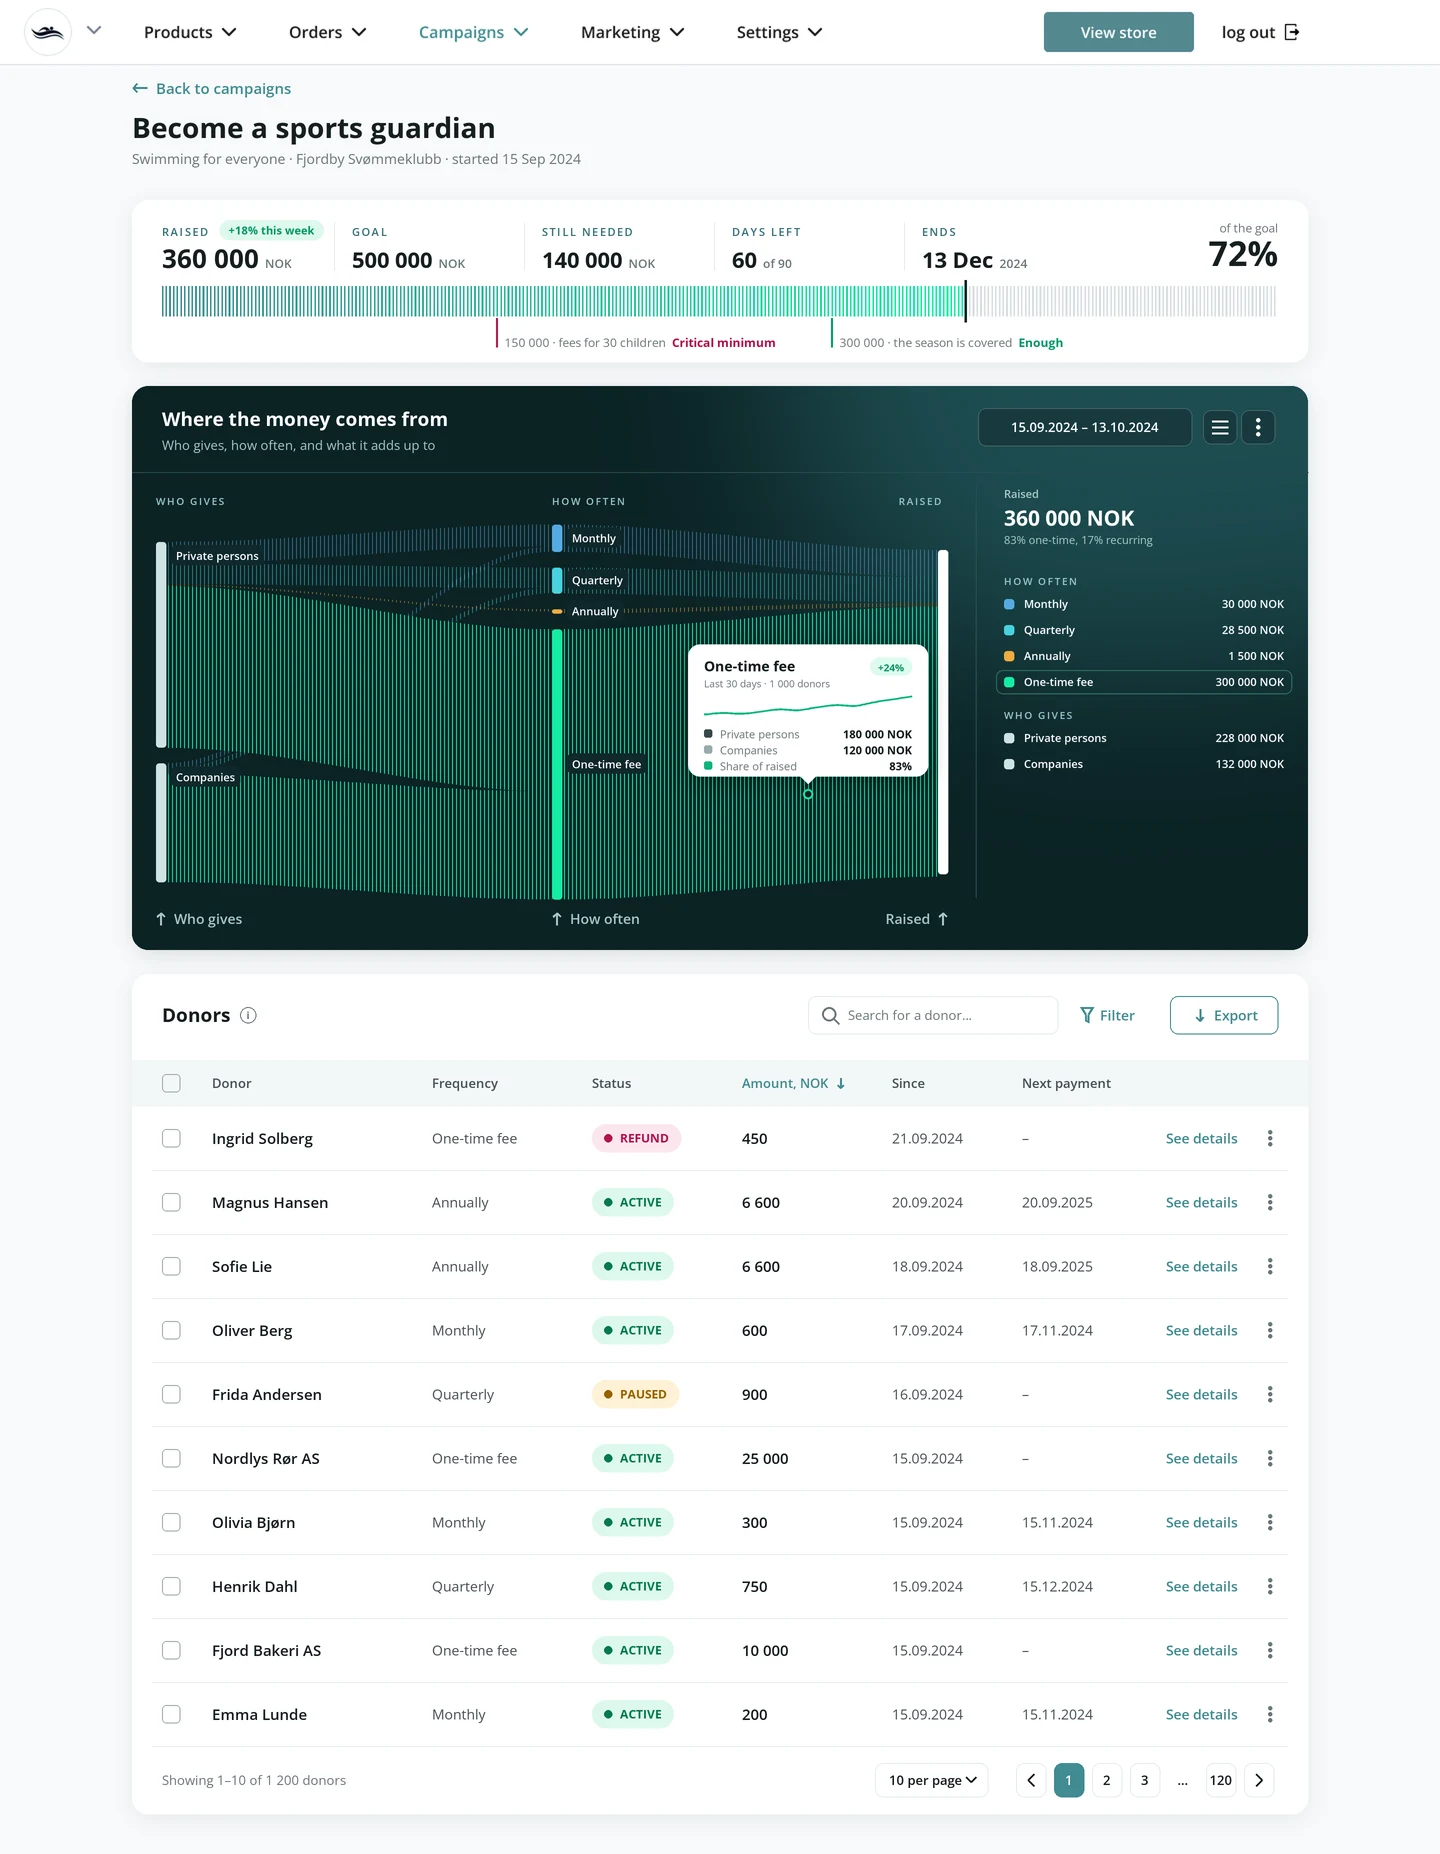
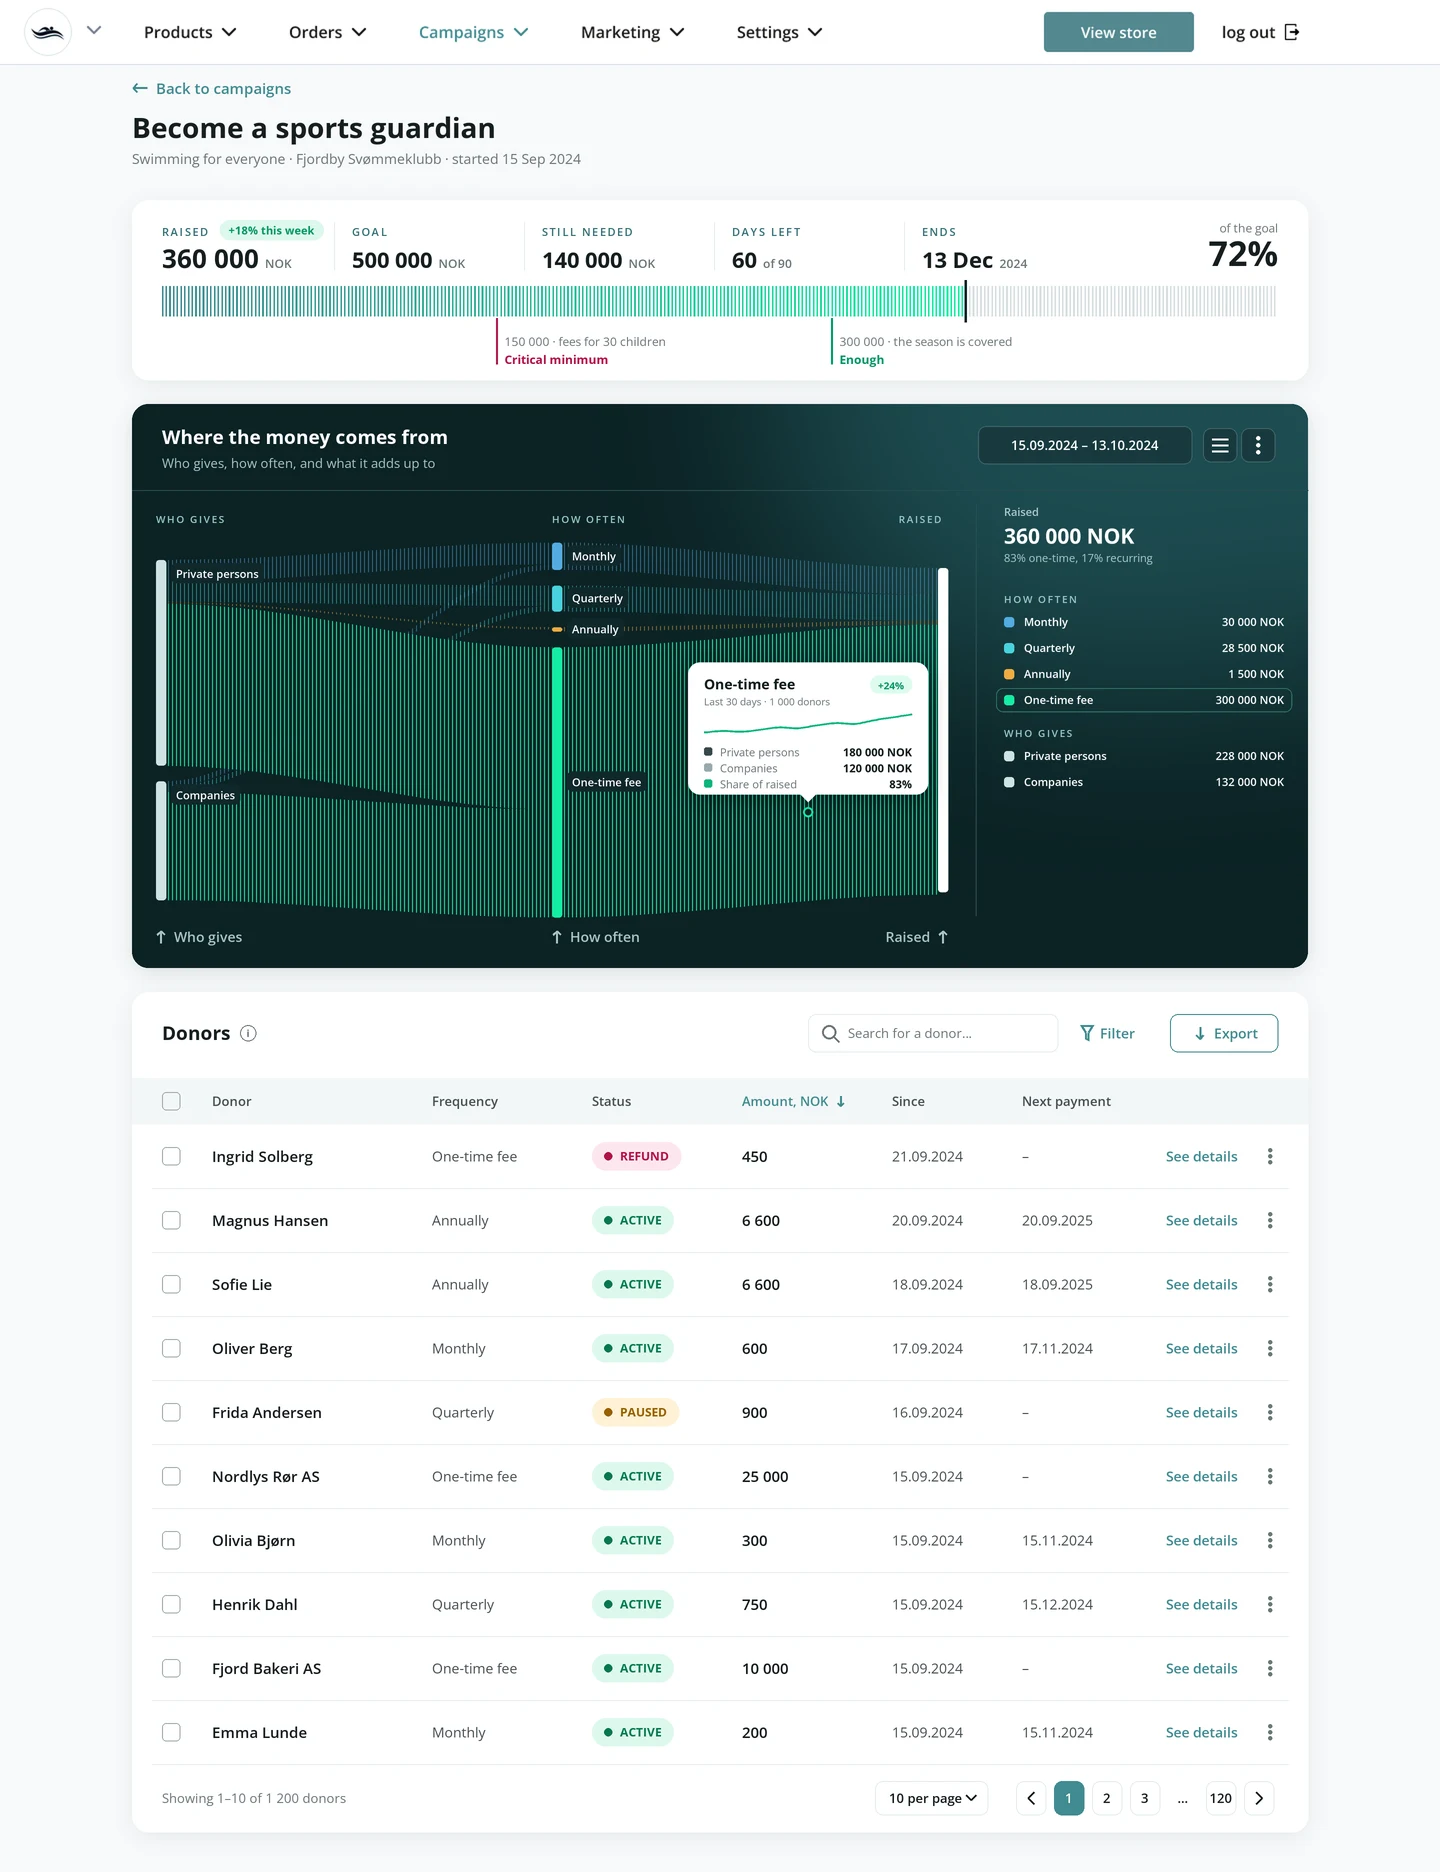
Sport Guardian admin: marks in two lines, note above the name

diff --git a/SportGuardian.html b/SportGuardian.html
@@ -311,7 +311,7 @@ footer .wrap{display:flex;justify-content:space-between;gap:16px;flex-wrap:wrap}
 
 <figure class="c5-12 rv" style="--d:.1s"><div class="panel"><img class="el c" src="assets/work/sport-guardian/el-create-donations.webp" alt="From the campaign builder, as choice cards: Accept donations from, with Everyone chosen over Private persons and Companies; Select donation frequency, with Monthly, Quarterly, Annually and One-time fee checked and Biannually not; and suggested amounts of 150, 300 and 600 NOK with an Add button." width="1280" height="1448" loading="lazy"></div><figcaption>For the club: who can give and how often, with a hint under every choice.</figcaption></figure>
 
-<figure class="c1-12 rv scroll"><div class="panel"><div class="browser" style="max-width:1000px"><div class="bar" aria-hidden="true"><i></i><i></i><i></i><span>admin.supporter.no</span></div><div class="vp fx" style="--to:-53.3%;--t:30s;--hd:4.514%"><img class="hd" src="assets/work/sport-guardian/screen-statistik-head.webp" alt="" width="1440" height="65" loading="lazy"><img src="assets/work/sport-guardian/screen-statistik-body.webp" alt="The campaign dashboard in the admin panel: the title Become a sports guardian; a progress card with 360 000 NOK raised, a 500 000 NOK goal, 140 000 still needed, 60 days left and the end date, a full-width bar at 72% with marks for the critical minimum, enough and the goal; a dark Sankey card of where the money comes from with a tooltip and a legend; and the donor table with search, Filter and Export, ten rows and pagination." width="1440" height="1789" loading="lazy"></div></div></div><figcaption style="max-width:64ch">The campaign dashboard: the goal and the days left at the top, where the money comes from, and every donor with refunds and pauses in one table.</figcaption></figure>
+<figure class="c1-12 rv scroll"><div class="panel"><div class="browser" style="max-width:1000px"><div class="bar" aria-hidden="true"><i></i><i></i><i></i><span>admin.supporter.no</span></div><div class="vp fx" style="--to:-53.8%;--t:30s;--hd:4.514%"><img class="hd" src="assets/work/sport-guardian/screen-statistik-head.webp" alt="" width="1440" height="65" loading="lazy"><img src="assets/work/sport-guardian/screen-statistik-body.webp" alt="The campaign dashboard in the admin panel: the title Become a sports guardian; a progress card with 360 000 NOK raised, a 500 000 NOK goal, 140 000 still needed, 60 days left and the end date, a full-width bar at 72% with marks for the critical minimum, enough and the goal; a dark Sankey card of where the money comes from with a tooltip and a legend; and the donor table with search, Filter and Export, ten rows and pagination." width="1440" height="1807" loading="lazy"></div></div></div><figcaption style="max-width:64ch">The campaign dashboard: the goal and the days left at the top, where the money comes from, and every donor with refunds and pauses in one table.</figcaption></figure>
       <div class="c1-12 rv charts">
         <div class="about"><h3>What this chart is</h3><p><b>A Sankey diagram.</b> Each band is as wide as the amount it carries, so you can follow the money from who gives, through how often they give, to the total.</p><p><b>When to use it:</b> when a whole splits and merges across stages and the question is where the volume goes, as with a budget, the money in a campaign, or the paths people take through a product. With more than about a dozen nodes, or when exact values must be compared, a table or a bar chart reads better.</p></div>
         <div><h3>Other charts, and when to use them</h3><ul class="ctypes"><li><svg viewBox="0 0 56 32" aria-hidden="true" focusable="false"><rect x="4" y="16" width="8" height="14" rx="1" fill="#CFE3E4"/><rect x="16" y="6" width="8" height="24" rx="1" fill="#418B91"/><rect x="28" y="12" width="8" height="18" rx="1" fill="#CFE3E4"/><rect x="40" y="20" width="8" height="10" rx="1" fill="#CFE3E4"/></svg><b>Bar chart</b><span>Compares amounts across categories, such as money raised per club or per campaign.</span></li><li><svg viewBox="0 0 56 32" aria-hidden="true" focusable="false"><path d="M3 26 L14 20 L24 22 L34 11 L44 13 L53 4" fill="none" stroke="#418B91" stroke-width="2" stroke-linejoin="round" stroke-linecap="round"/></svg><b>Line chart</b><span>Shows a trend over time, such as money raised day by day.</span></li><li><svg viewBox="0 0 56 32" aria-hidden="true" focusable="false"><path d="M3 26 L14 19 L24 21 L34 11 L44 12 L53 5 V30 H3 Z" fill="#CFE3E4"/><path d="M3 26 L14 19 L24 21 L34 11 L44 12 L53 5" fill="none" stroke="#418B91" stroke-width="2" stroke-linejoin="round"/></svg><b>Area chart</b><span>A line chart with the volume filled in: for a total that builds up over time.</span></li><li><svg viewBox="0 0 56 32" aria-hidden="true" focusable="false"><rect x="4" y="14" width="10" height="16" fill="#418B91"/><rect x="4" y="8" width="10" height="6" fill="#CFE3E4"/><rect x="22" y="10" width="10" height="20" fill="#418B91"/><rect x="22" y="3" width="10" height="7" fill="#CFE3E4"/><rect x="40" y="18" width="10" height="12" fill="#418B91"/><rect x="40" y="12" width="10" height="6" fill="#CFE3E4"/></svg><b>Stacked bar chart</b><span>Parts of a whole, compared across groups, such as one-time and recurring gifts per campaign.</span></li><li><svg viewBox="0 0 56 32" aria-hidden="true" focusable="false"><polygon points="28.0,2.0 40.1,9.0 40.1,23.0 28.0,30.0 15.9,23.0 15.9,9.0" fill="none" stroke="#CFE3E4" stroke-width="1"/><polygon points="28.0,7.0 35.8,11.5 35.8,20.5 28.0,25.0 20.2,20.5 20.2,11.5" fill="none" stroke="#CFE3E4" stroke-width="1"/><polygon points="28.0,11.5 31.9,13.8 31.9,18.2 28.0,20.5 24.1,18.2 24.1,13.8" fill="none" stroke="#CFE3E4" stroke-width="1"/><line x1="28" y1="16" x2="28.0" y2="2.0" stroke="#CFE3E4" stroke-width="1"/><line x1="28" y1="16" x2="40.1" y2="9.0" stroke="#CFE3E4" stroke-width="1"/><line x1="28" y1="16" x2="40.1" y2="23.0" stroke="#CFE3E4" stroke-width="1"/><line x1="28" y1="16" x2="28.0" y2="30.0" stroke="#CFE3E4" stroke-width="1"/><line x1="28" y1="16" x2="15.9" y2="23.0" stroke="#CFE3E4" stroke-width="1"/><line x1="28" y1="16" x2="15.9" y2="9.0" stroke="#CFE3E4" stroke-width="1"/><polygon points="28.0,4.0 34.9,12.0 39.3,22.5 28.0,22.0 19.3,21.0 20.2,11.5" fill="#418B91" fill-opacity=".35" stroke="#418B91" stroke-width="1.6" stroke-linejoin="round"/></svg><b>Radar chart</b><span>Compares several measures of one thing at once, such as how a club does on donors, gifts, reach and repeat giving against the average; reads best with five to eight measures.</span></li><li><svg viewBox="0 0 56 32" aria-hidden="true" focusable="false"><circle cx="28" cy="16" r="11" fill="none" stroke="#CFE3E4" stroke-width="5"/><path d="M28 5 A11 11 0 1 1 18.5 21.5" fill="none" stroke="#418B91" stroke-width="5"/></svg><b>Donut or progress ring</b><span>One share of a whole, or progress to a goal; reads best with one to three parts.</span></li><li><svg viewBox="0 0 56 32" aria-hidden="true" focusable="false"><rect x="4" y="3" width="48" height="6" rx="1" fill="#418B91"/><rect x="11" y="12" width="34" height="6" rx="1" fill="#418B91" fill-opacity=".7"/><rect x="18" y="21" width="20" height="6" rx="1" fill="#418B91" fill-opacity=".45"/></svg><b>Funnel chart</b><span>How many people drop off between the steps of a flow, from the campaign page to the payment.</span></li><li><svg viewBox="0 0 56 32" aria-hidden="true" focusable="false"><rect x="4" y="3" width="9" height="8" rx="1" fill="#418B91" fill-opacity="0.2"/><rect x="14" y="3" width="9" height="8" rx="1" fill="#418B91" fill-opacity="0.5"/><rect x="24" y="3" width="9" height="8" rx="1" fill="#418B91" fill-opacity="0.9"/><rect x="34" y="3" width="9" height="8" rx="1" fill="#418B91" fill-opacity="0.6"/><rect x="44" y="3" width="9" height="8" rx="1" fill="#418B91" fill-opacity="0.3"/><rect x="4" y="12" width="9" height="8" rx="1" fill="#418B91" fill-opacity="0.4"/><rect x="14" y="12" width="9" height="8" rx="1" fill="#418B91" fill-opacity="0.8"/><rect x="24" y="12" width="9" height="8" rx="1" fill="#418B91" fill-opacity="1"/><rect x="34" y="12" width="9" height="8" rx="1" fill="#418B91" fill-opacity="0.7"/><rect x="44" y="12" width="9" height="8" rx="1" fill="#418B91" fill-opacity="0.2"/><rect x="4" y="21" width="9" height="8" rx="1" fill="#418B91" fill-opacity="0.1"/><rect x="14" y="21" width="9" height="8" rx="1" fill="#418B91" fill-opacity="0.3"/><rect x="24" y="21" width="9" height="8" rx="1" fill="#418B91" fill-opacity="0.5"/><rect x="34" y="21" width="9" height="8" rx="1" fill="#418B91" fill-opacity="0.4"/><rect x="44" y="21" width="9" height="8" rx="1" fill="#418B91" fill-opacity="0.15"/></svg><b>Heatmap</b><span>Patterns across two dimensions, such as donations by weekday and hour.</span></li><li><svg viewBox="0 0 56 32" aria-hidden="true" focusable="false"><circle cx="6" cy="26" r="2.6" fill="#418B91"/><circle cx="12" cy="23" r="2.6" fill="#418B91"/><circle cx="16" cy="24" r="2.6" fill="#418B91"/><circle cx="21" cy="19" r="2.6" fill="#418B91"/><circle cx="26" cy="18" r="2.6" fill="#418B91"/><circle cx="30" cy="15" r="2.6" fill="#418B91"/><circle cx="35" cy="14" r="2.6" fill="#418B91"/><circle cx="39" cy="10" r="2.6" fill="#418B91"/><circle cx="44" cy="11" r="2.6" fill="#418B91"/><circle cx="49" cy="6" r="2.6" fill="#418B91"/><circle cx="24" cy="25" r="2.6" fill="#418B91"/><circle cx="42" cy="20" r="2.6" fill="#418B91"/></svg><b>Scatter plot</b><span>How two measures relate, such as the size of a gift and how often the donor gives.</span></li></ul></div>

diff --git a/tools/sport-guardian/admin_dash.py b/tools/sport-guardian/admin_dash.py
@@ -49,7 +49,7 @@ text(X0, 164, 'Swimming for everyone · Fjordby Svømmeklubb · started 15 Sep 2
 # 1. the progress card, after her reference: the numbers on top, a full-width bar of thin vertical lines, and marks
 # under it for the critical minimum, the amount that is enough, and the goal. Thresholds are made up for the mockup.
 GAP_B = 24
-y0, y1 = 200, 362; card(X0, y0, X1, y1)
+y0, y1 = 200, 380; card(X0, y0, X1, y1)
 GOAL, RAISED_ = 500000, 360000
 stats = [('RAISED', '360 000', 'NOK', '+18% this week'), ('GOAL', '500 000', 'NOK', ''), ('STILL NEEDED', '140 000', 'NOK', ''),
          ('DAYS LEFT', '60', 'of 90', ''), ('ENDS', '13 Dec', '2024', '')]
@@ -84,10 +84,10 @@ marks = [(150000, 'Critical minimum', '150 000 · fees for 30 children', CRIT), 
 ly = by+bh+26
 for v, name, sub, mc in marks:
     x = bl+(br-bl)*v/GOAL; end = v == GOAL
-    d.line(P(x, by+bh+2, x, ly+5), fill=mc, width=2*S)
-    # the secondary text first, then the name (her request: same type, only the order changes)
-    nf, sf = f('Bold', 12), f('Regular', 12); sw = d.textlength(sub+'  ', font=sf)/S
-    text(x+8, ly+5, sub+'  ', sf, MUT, 'ls'); text(x+8+sw, ly+5, name, nf, mc if mc != DEEP else INK, 'ls')
+    # two lines (her request): the secondary text first, the name under it; the line runs down to the name's baseline
+    nf, sf = f('Bold', 12), f('Regular', 12)
+    d.line(P(x, by+bh+2, x, ly+22), fill=mc, width=2*S)
+    text(x+8, ly+4, sub, sf, MUT, 'ls'); text(x+8, ly+22, name, nf, mc if mc != DEEP else INK, 'ls')
 
 # 2. the Sankey card: deep teal with a soft glow (as before), the new header with the date range and controls, the
 # chart as it was (its data, tooltip and legend, sankey.flow_body), and the column names along the bottom

diff --git a/sportguardian.md b/sportguardian.md
@@ -68,4 +68,4 @@ Then (2026-10-14, her request, after her line-field reference): the campaign tit
 Then (2026-10-14, her requests): the marks under the progress bar run down to their labels' baseline, the label beside the line; the donor table shows ten rows and a footer with "Showing 1–10 of 1 200 donors", "10 per page" and pagination (1, 2, 3 … 120). The black strip under the table is gone (the drawing canvas was shorter than the dashboard).
 Then (2026-10-14, her request): under the bar the note comes first and the name after it ("150 000 · fees for 30 children  Critical minimum", "300 000 · the season is covered  Enough"), same type; the Goal mark is removed.
 Campaign builder (2026-10-14, her request, after her reference 26, choice cards): the donation settings are redrawn by [`tools/sport-guardian/create_form.py`](tools/sport-guardian/create_form.py) as cards with a line icon, a bold title and a one-line description. Accept donations from is a single choice with a radio button in each card's corner (Everyone, chosen; Private persons; Companies); Select donation frequency is a multiple choice with checkboxes (Monthly, Quarterly, Annually and One-time fee checked, Biannually not), "Select all" on the right and a sixth cell "4 of 5 ways to give chosen"; Pre-defined donation amounts (Optional) are chips, 150, 300 and 600 NOK with a remove cross, and Add. Chosen cards are outlined in teal on a pale teal ground.
-
+Then (2026-10-14, her request): each mark under the bar has two lines, the note on top and the name under it; the line runs down to the name.
